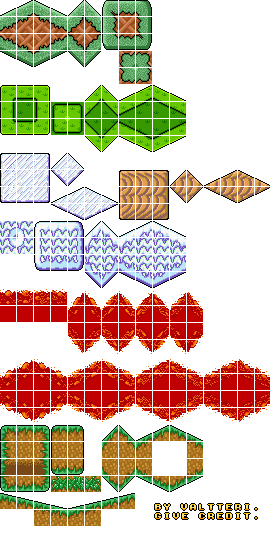
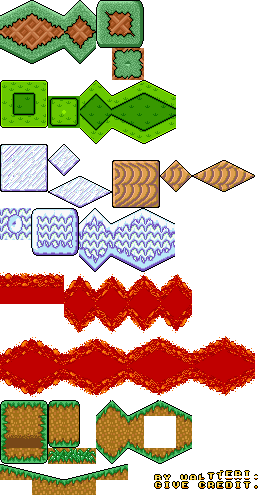
mapa grande

diff --git a/src/js/main.js b/src/js/main.js
@@ -34,8 +34,16 @@ var PreloaderScene = {
 
     this.game.load.atlas('mario', 'images/Mario.png', 'images/sprites.json');
 
+    this.game.load.tilemap('map', 'tilemaps/level1.json', null, Phaser.Tilemap.TILED_JSON);
+    this.game.load.image('tiles3', 'tilemaps/tiles3G.png');
+    this.game.load.image('tiles1', 'tilemaps/tiles1G.png'); 
+    this.game.load.image('tiles2', 'tilemaps/tiles2G.png');    
+    /*
     this.game.load.tilemap('map', 'tilemaps/super_mario.json', null, Phaser.Tilemap.TILED_JSON);
-    this.game.load.image('tiles', 'tilemaps/super_mario.png');
+    this.game.load.image('tiles3', 'tilemaps/tiles3G.png');
+    this.game.load.image('tiles1', 'tilemaps/tiles1G.png'); 
+    this.game.load.image('tiles2', 'tilemaps/tiles2G.png');  
+    */
   },
   create: function () {
     this.game.state.start('menu');

diff --git a/src/js/play_scene.js b/src/js/play_scene.js
@@ -21,8 +21,9 @@ var PlayScene = {
     //Mapa
     this.game.stage.backgroundColor = '#787878';
     this.map = this.game.add.tilemap('map');
-    this.map.addTilesetImage('SuperMarioBros-World1-1', 'tiles');
-    this.map.scale = { x: 2.5, y: 2.5 };
+    this.map.addTilesetImage('tiles3G', 'tiles3');
+    this.map.addTilesetImage('tiles1G', 'tiles1');
+    this.map.addTilesetImage('tiles2G', 'tiles2');
     this.layer = this.map.createLayer('World1');
     this.layer.resizeWorld();
 

diff --git a/src/js/Chomp.js b/src/js/Chomp.js
@@ -21,6 +21,7 @@ function Chomp(game, x, y, sprite, frame, speed, chain, distance, cooldown) {
     this.chargeTimer = 0;
     this.charging = false;
     //Sprites y animaciones
+    this.scale.setTo(2.5,2.5);
     this.animations.add('walkLeft', [0, 1, 4, 1, 0], 5, true);
     this.animations.add('walkRight', [3, 2, 7, 2, 3], 5, true);
     this.originalHeight = this.body.height * this.scale.x;

diff --git a/src/js/Mario.js b/src/js/Mario.js
@@ -51,6 +51,7 @@ function Mario(game, x, y, sprite, frame,scene) {
     this.body.gravity.y = 500;
     this.body.collideWorldBounds = true;
     //Sprite y animaciones
+    this.scale.setTo(2,2);
     this.originalHeight = this.body.height * this.scale.x;
     //Animaciones normales
     this.animations.add('runLeft', Phaser.Animation.generateFrameNames('walkLeft', 1, 3), 8, true);

diff --git a/src/js/PlantaPiraña.js b/src/js/PlantaPiraña.js
@@ -9,7 +9,7 @@ function Planta(game, x, y, sprite, frame, shootingSpeed, shootingTime) {
     //Disparo
     this.angleShoot = 0;
     //Sprites y animaciones
-
+    this.scale.setTo(2,2);
     this.animations.add('shoot1', [9, 8], 5, false);
     this.animations.add('shoot2', [7, 6], 5, false);
     this.animations.add('shoot3', [5, 4], 5, false);

diff --git a/src/js/Goomba.js b/src/js/Goomba.js
@@ -14,6 +14,7 @@ function Goomba(game, x, y, sprite, frame, speed, movingTime, player) {
     this.movingTimer = 0;
     //Sprites y animaciones
     this.animations.add('walk', [0, 1], 5, true);
+    this.scale.setTo(2,2);
     this.originalHeight = this.body.height * this.scale.x;
 }
 Goomba.prototype = Object.create(Enemy.prototype);

diff --git a/src/js/Cappy.js b/src/js/Cappy.js
@@ -25,7 +25,7 @@ function Cappy(game, x, y, name, player, dir) {
     this.game.physics.arcade.enable(this);
     this.body.allowGravity = false;
     //Sprite y animaciones
-
+    this.scale.setTo(2,2);
     this.animations.add("Thrown", [0, 1, 2], 8, true);
 }
 Cappy.prototype = Object.create(Phaser.Sprite.prototype);

diff --git a/src/js/Disparo.js b/src/js/Disparo.js
@@ -7,6 +7,7 @@ function Shot(game, x, y, sprite, frame, animName, animFrames, animSpeed) {
   this.game.physics.arcade.enable(this);
   this.body.allowGravity = false;
   //Sprite y animaciones
+  this.scale.setTo(2,2);
   this.animName = animName;
   this.animations.add(this.animName, animFrames, animSpeed, true);
 }

diff --git a/src/js/Spiny.js b/src/js/Spiny.js
@@ -9,7 +9,7 @@ function Spiny(game, x, y, sprite, frame, speed, movingTime) {
     this.movingTime = movingTime;
     this.movingTimer = 0;
     //Sprites y animaciones
-
+    this.scale.setTo(2,2);
     this.animations.add('walkRight', [0, 1], 5, true);
     this.animations.add('walkLeft', [2, 3], 5, true);
 }
